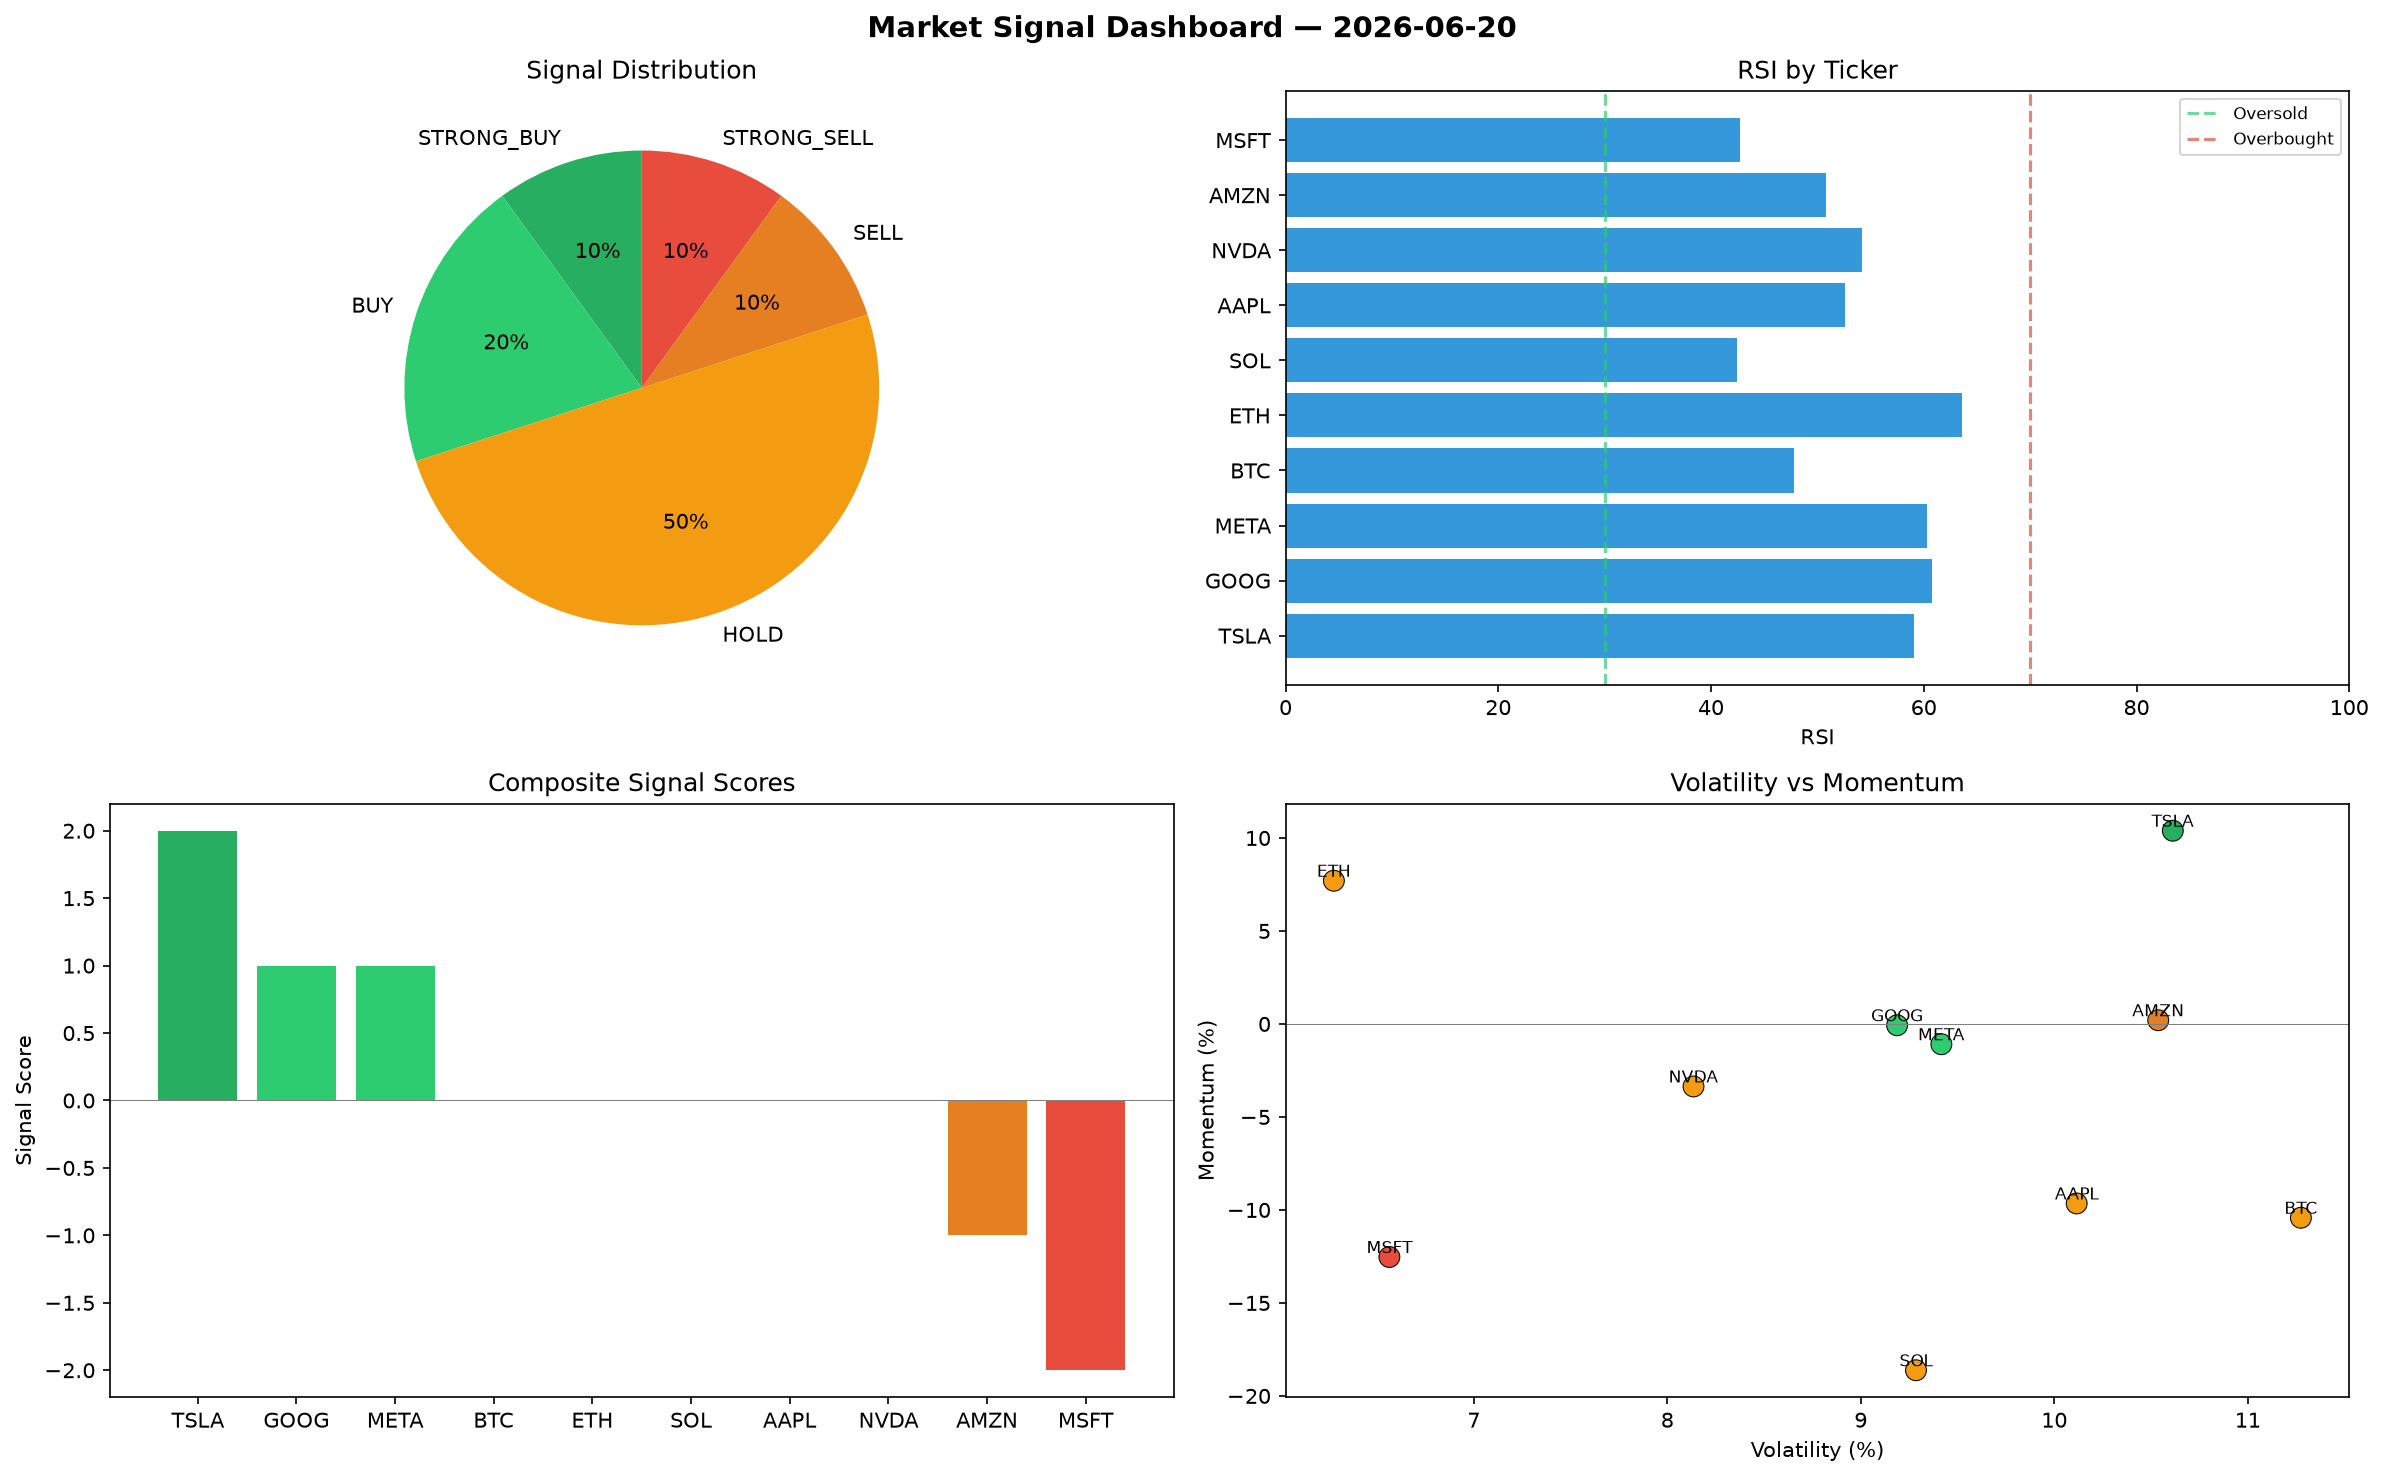
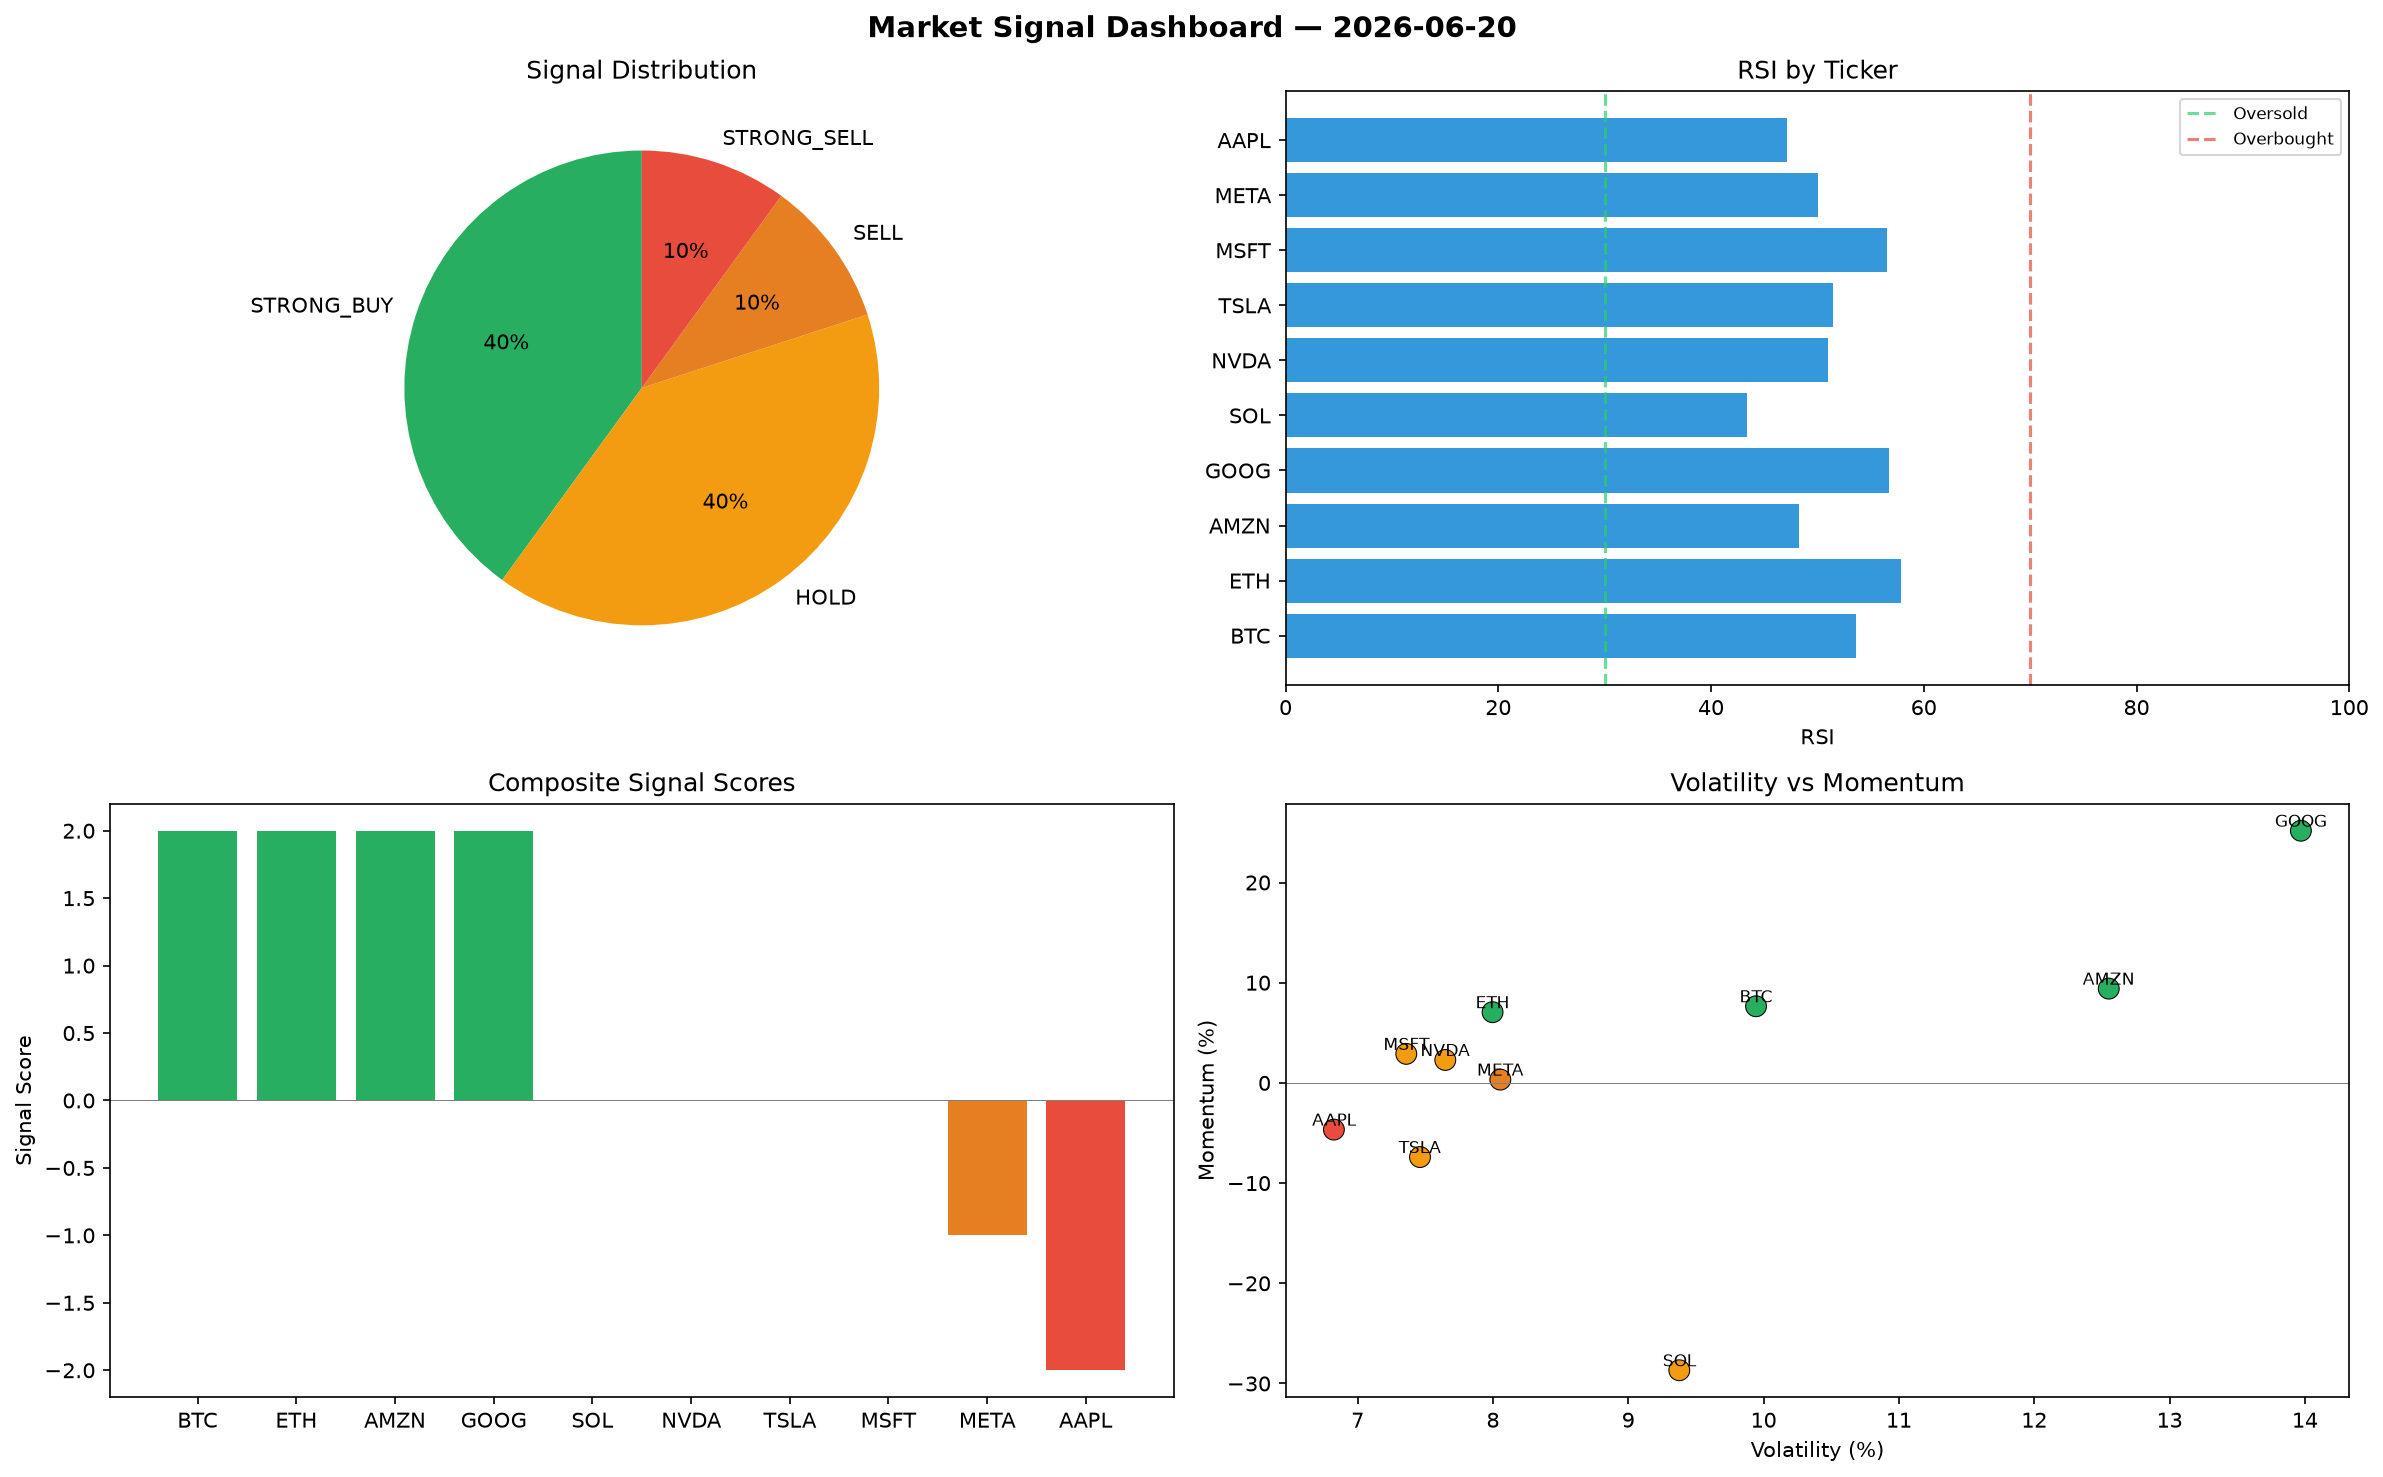
automated-bots: market signals 2026-06-20T10:55

diff --git a/logs/2026-06-20.md b/logs/2026-06-20.md
@@ -1,6 +1,6 @@
 # Market Signal Report — 2026-06-20
 
-**Run ID:** `f2a1a8c880` | **Buy:** 3 | **Sell:** 2 | **Hold:** 5
+**Run ID:** `ad2086652e` | **Buy:** 4 | **Sell:** 2 | **Hold:** 4
 
 ![Dashboard](2026-06-20_dashboard.png)
 
@@ -8,28 +8,28 @@
 
 | Ticker | Price | Signal | Score | RSI | Momentum | Confidence |
 |--------|-------|--------|-------|-----|----------|------------|
-| TSLA | $4949.71 | **STRONG_BUY** | 2 | 59.06 | 0.1039 | 0.5 |
-| GOOG | $3866.35 | **BUY** | 1 | 60.74 | -0.0007 | 0.25 |
-| META | $4769.07 | **BUY** | 1 | 60.28 | -0.0109 | 0.25 |
-| BTC | $61.49 | **HOLD** | 0 | 47.83 | -0.1042 | 0.0 |
-| ETH | $4245.58 | **HOLD** | 0 | 63.56 | 0.077 | 0.0 |
-| SOL | $4644.45 | **HOLD** | 0 | 42.48 | -0.1862 | 0.0 |
-| AAPL | $1646.12 | **HOLD** | 0 | 52.64 | -0.0965 | 0.0 |
-| NVDA | $4607.78 | **HOLD** | 0 | 54.15 | -0.0336 | 0.0 |
-| AMZN | $3708.39 | **SELL** | -1 | 50.79 | 0.002 | 0.25 |
-| MSFT | $2251.25 | **STRONG_SELL** | -2 | 42.71 | -0.1253 | 0.5 |
+| BTC | $2969.03 | **STRONG_BUY** | 2 | 53.61 | 0.0765 | 0.5 |
+| ETH | $3503.83 | **STRONG_BUY** | 2 | 57.87 | 0.0706 | 0.5 |
+| AMZN | $1011.67 | **STRONG_BUY** | 2 | 48.31 | 0.0941 | 0.5 |
+| GOOG | $2590.42 | **STRONG_BUY** | 2 | 56.73 | 0.2517 | 0.5 |
+| SOL | $1465.21 | **HOLD** | 0 | 43.38 | -0.2868 | 0.0 |
+| NVDA | $1896.92 | **HOLD** | 0 | 50.99 | 0.0229 | 0.0 |
+| TSLA | $552.74 | **HOLD** | 0 | 51.43 | -0.074 | 0.0 |
+| MSFT | $782.66 | **HOLD** | 0 | 56.52 | 0.029 | 0.0 |
+| META | $2669.87 | **SELL** | -1 | 50.08 | 0.0033 | 0.25 |
+| AAPL | $301.7 | **STRONG_SELL** | -2 | 47.17 | -0.0466 | 0.5 |
 
 ## Delta vs Yesterday
 
 | Ticker | Today | Yesterday | Price Change | Signal Changed |
 |--------|-------|-----------|-------------|----------------|
-| TSLA | STRONG_BUY | STRONG_SELL | 📈 196.01% | ⚠ YES |
-| GOOG | BUY | SELL | 📈 200.98% | ⚠ YES |
-| META | BUY | HOLD | 📈 8.46% | ⚠ YES |
-| BTC | HOLD | STRONG_BUY | 📉 -98.37% | ⚠ YES |
-| ETH | HOLD | STRONG_SELL | 📈 61.08% | ⚠ YES |
-| SOL | HOLD | STRONG_SELL | 📈 1169.18% | ⚠ YES |
-| AAPL | HOLD | STRONG_BUY | 📉 -50.71% | ⚠ YES |
-| NVDA | HOLD | STRONG_SELL | 📈 1277.18% | ⚠ YES |
-| AMZN | SELL | STRONG_BUY | 📈 6.7% | ⚠ YES |
-| MSFT | STRONG_SELL | STRONG_SELL | 📉 -9.99% | — |
+| BTC | STRONG_BUY | STRONG_BUY | 📉 -21.39% | — |
+| ETH | STRONG_BUY | STRONG_SELL | 📈 32.93% | ⚠ YES |
+| AMZN | STRONG_BUY | STRONG_BUY | 📉 -70.89% | — |
+| GOOG | STRONG_BUY | SELL | 📈 101.66% | ⚠ YES |
+| SOL | HOLD | STRONG_SELL | 📈 300.4% | ⚠ YES |
+| NVDA | HOLD | STRONG_SELL | 📈 466.96% | ⚠ YES |
+| TSLA | HOLD | STRONG_SELL | 📉 -66.94% | ⚠ YES |
+| MSFT | HOLD | STRONG_SELL | 📉 -68.71% | ⚠ YES |
+| META | SELL | HOLD | 📉 -39.28% | ⚠ YES |
+| AAPL | STRONG_SELL | STRONG_BUY | 📉 -90.97% | ⚠ YES |
